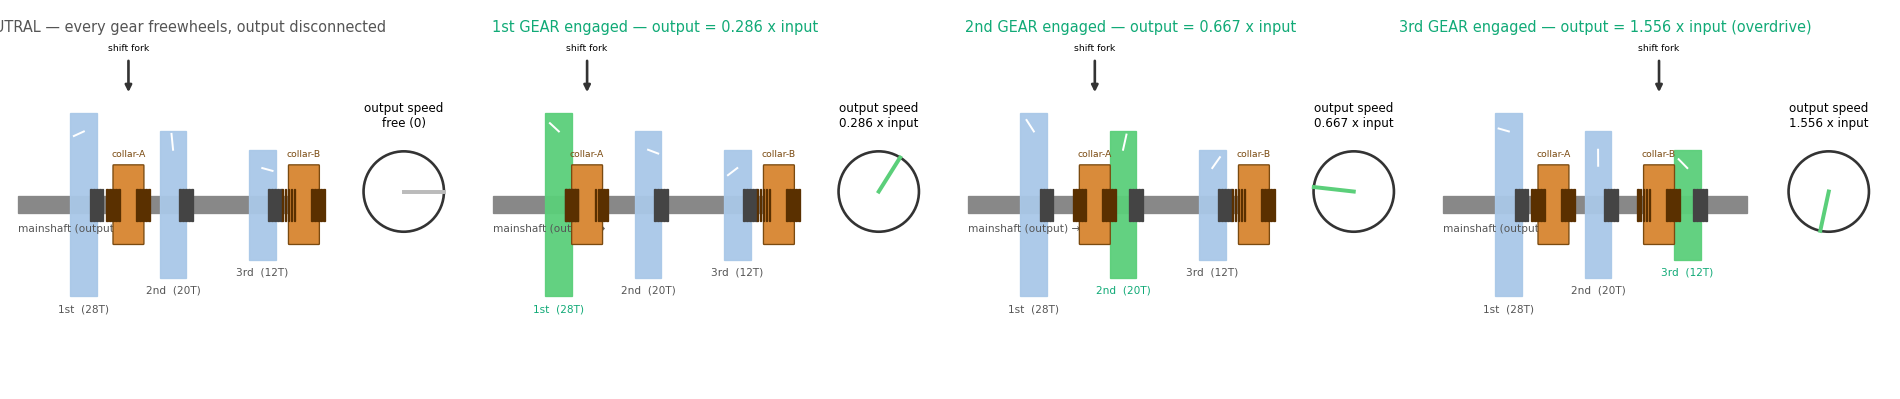
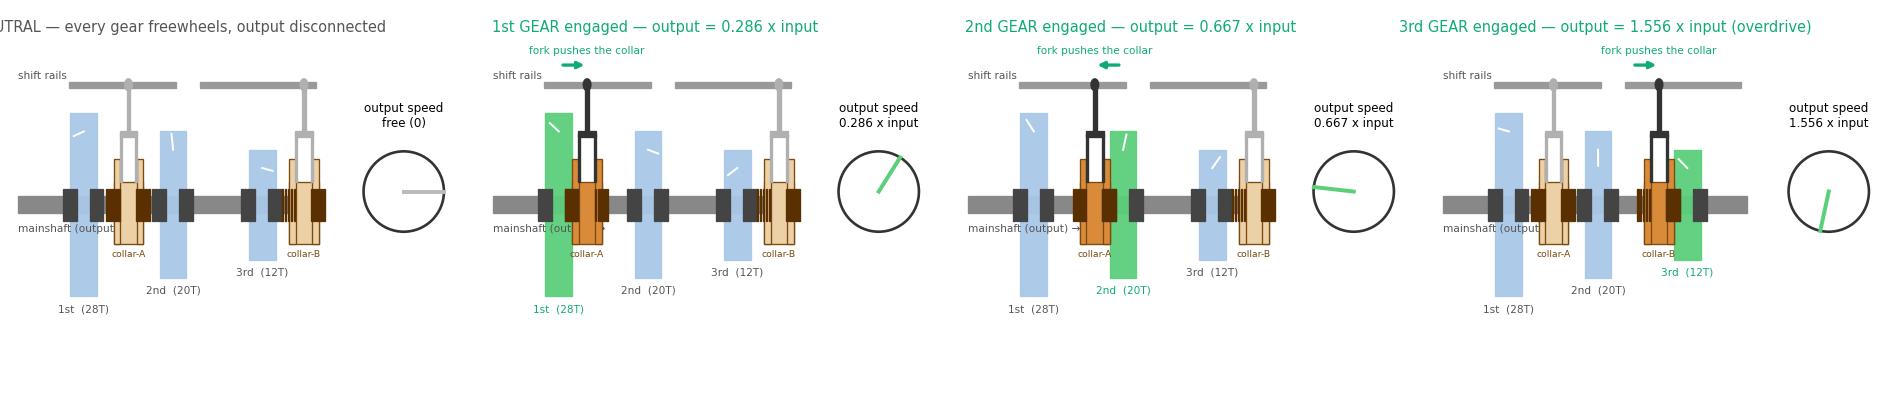
exp(gearbox): shift animation v2 — collar driven by a fork on a shift rail
Address "the collar floats with no mechanism to slide it": give each collar a groove
(two flanges), put a shift fork's prongs in the groove, mount the fork on a fixed
shift rail via a stem+clamp. The active fork goes dark with a "fork pushes the collar"
arrow. Now the actuation reads: rail -> fork in groove -> collar slides -> dog teeth
lock the gear. Dog teeth shown on both gear faces.

diff --git a/scratch/gearbox_shift_animate.py b/scratch/gearbox_shift_animate.py
@@ -18,7 +18,7 @@ from pathlib import Path
 import matplotlib
 matplotlib.use("Agg")
 import matplotlib.pyplot as plt                       # noqa: E402
-from matplotlib.patches import Rectangle, FancyBboxPatch  # noqa: E402
+from matplotlib.patches import Rectangle  # noqa: E402
 import io  # noqa: E402
 from PIL import Image  # noqa: E402
 
@@ -87,19 +87,38 @@ def draw(ax, axd, colA, colB, engaged, label, out_angle, frame):
                 [g["r"] - 0.4, g["r"] - 0.4 + 0.35 * math.sin(spin)], color="white", lw=1.5, zorder=3)
         ax.text(g["x"], -g["r"] - 0.35, g["name"], ha="center", fontsize=8,
                 color="#1a7" if lit else "#555")
-        dog_band(ax, g["x"] + 0.45, 0, 0.5, 0.7, "#444")     # dog teeth on the gear face
-    # collars (splined to the shaft; slide axially)
-    for cx, tag in ((colA, "collar-A"), (colB, "collar-B")):
-        ax.add_patch(FancyBboxPatch((cx - 0.5, -0.85), 1.0, 1.7,
-                     boxstyle="round,pad=0.02", fc="#d98b3a", ec="#7a4a10", zorder=4))
-        ax.text(cx, 1.05, tag, ha="center", fontsize=7, color="#7a4a10")
-        dog_band(ax, cx - 0.5, 0, 0.5, 0.7, "#5a3000")       # dog teeth facing left
-        dog_band(ax, cx + 0.5, 0, 0.5, 0.7, "#5a3000")       # and right
-    # shift fork arrow
+        dog_band(ax, g["x"] - 0.45, 0, 0.5, 0.7, "#444")     # dog teeth on both faces
+        dog_band(ax, g["x"] + 0.45, 0, 0.5, 0.7, "#444")
+    # fixed shift rails (the rods the forks slide along) — drawn first, behind
+    for x0, x1 in ((2.0, 5.6), (6.4, 10.3)):
+        ax.add_patch(Rectangle((x0, 2.55), x1 - x0, 0.14, color="#999", zorder=2))
+    ax.text(0.3, 2.75, "shift rails", fontsize=8, color="#555")
+
+    def draw_collar(cx, tag, active):
+        edge, body = "#7a4a10", ("#d98b3a" if active else "#ecd0a6")
+        # grooved sleeve: hub + two raised flanges with a groove between them
+        ax.add_patch(Rectangle((cx - 0.5, -0.85), 1.0, 1.35, fc=body, ec=edge, zorder=4))
+        ax.add_patch(Rectangle((cx - 0.5, -0.85), 0.22, 1.85, fc=body, ec=edge, zorder=4))  # L flange
+        ax.add_patch(Rectangle((cx + 0.28, -0.85), 0.22, 1.85, fc=body, ec=edge, zorder=4))  # R flange
+        dog_band(ax, cx - 0.5, 0, 0.5, 0.7, "#5a3000")       # dog teeth on both ends
+        dog_band(ax, cx + 0.5, 0, 0.5, 0.7, "#5a3000")
+        ax.text(cx, -1.15, tag, ha="center", fontsize=7, color=edge)
+        # shift fork: two prongs riding in the groove + yoke + stem up to the rail
+        fc = "#333" if active else "#b0b0b0"
+        ax.add_patch(Rectangle((cx - 0.30, 0.50), 0.07, 1.05, color=fc, zorder=6))   # L prong
+        ax.add_patch(Rectangle((cx + 0.23, 0.50), 0.07, 1.05, color=fc, zorder=6))   # R prong
+        ax.add_patch(Rectangle((cx - 0.30, 1.48), 0.60, 0.12, color=fc, zorder=6))   # yoke
+        ax.add_patch(Rectangle((cx - 0.06, 1.55), 0.12, 1.1, color=fc, zorder=6))    # stem to rail
+        ax.add_patch(plt.Circle((cx, 2.62), 0.13, color=fc, zorder=7))               # rail clamp
+
+    draw_collar(colA, "collar-A", engaged in (0, 1))
+    draw_collar(colB, "collar-B", engaged == 2)
+    # which fork is being pushed
     fork_x = colA if engaged != 2 else colB
-    ax.annotate("", xy=(fork_x, 2.4), xytext=(fork_x, 3.2),
-                arrowprops=dict(arrowstyle="-|>", color="#333", lw=2))
-    ax.text(fork_x, 3.35, "shift fork", ha="center", fontsize=7)
+    if engaged is not None:
+        ax.annotate("", xy=(fork_x, 3.05), xytext=(fork_x + (0.9 if engaged == 1 else -0.9), 3.05),
+                    arrowprops=dict(arrowstyle="-|>", color="#1a7", lw=2.5))
+        ax.text(fork_x, 3.3, "fork pushes the collar", ha="center", fontsize=8, color="#1a7")
     ax.set_title(label, fontsize=11, color="#1a7" if engaged is not None else "#555")
     # output dial
     axd.clear(); axd.set_xlim(-1.3, 1.3); axd.set_ylim(-1.3, 1.4); axd.set_aspect("equal"); axd.axis("off")
